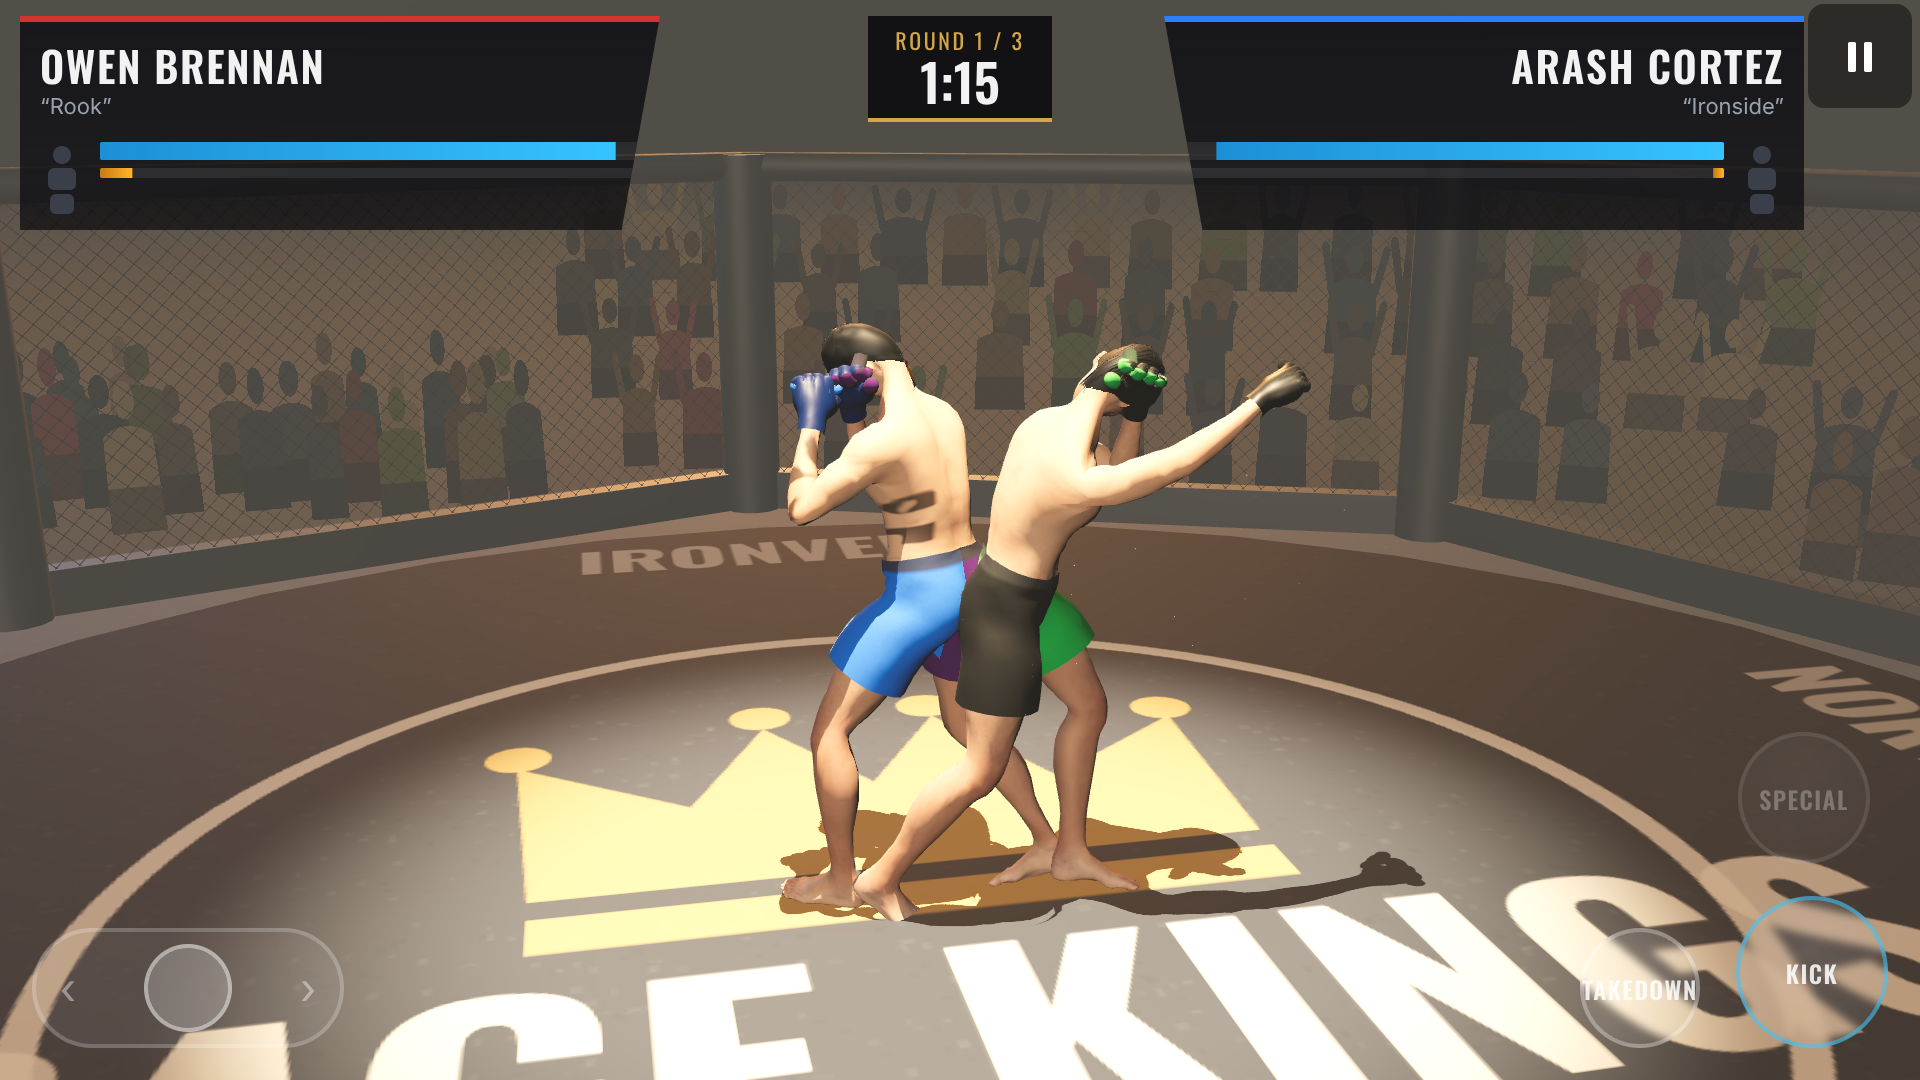
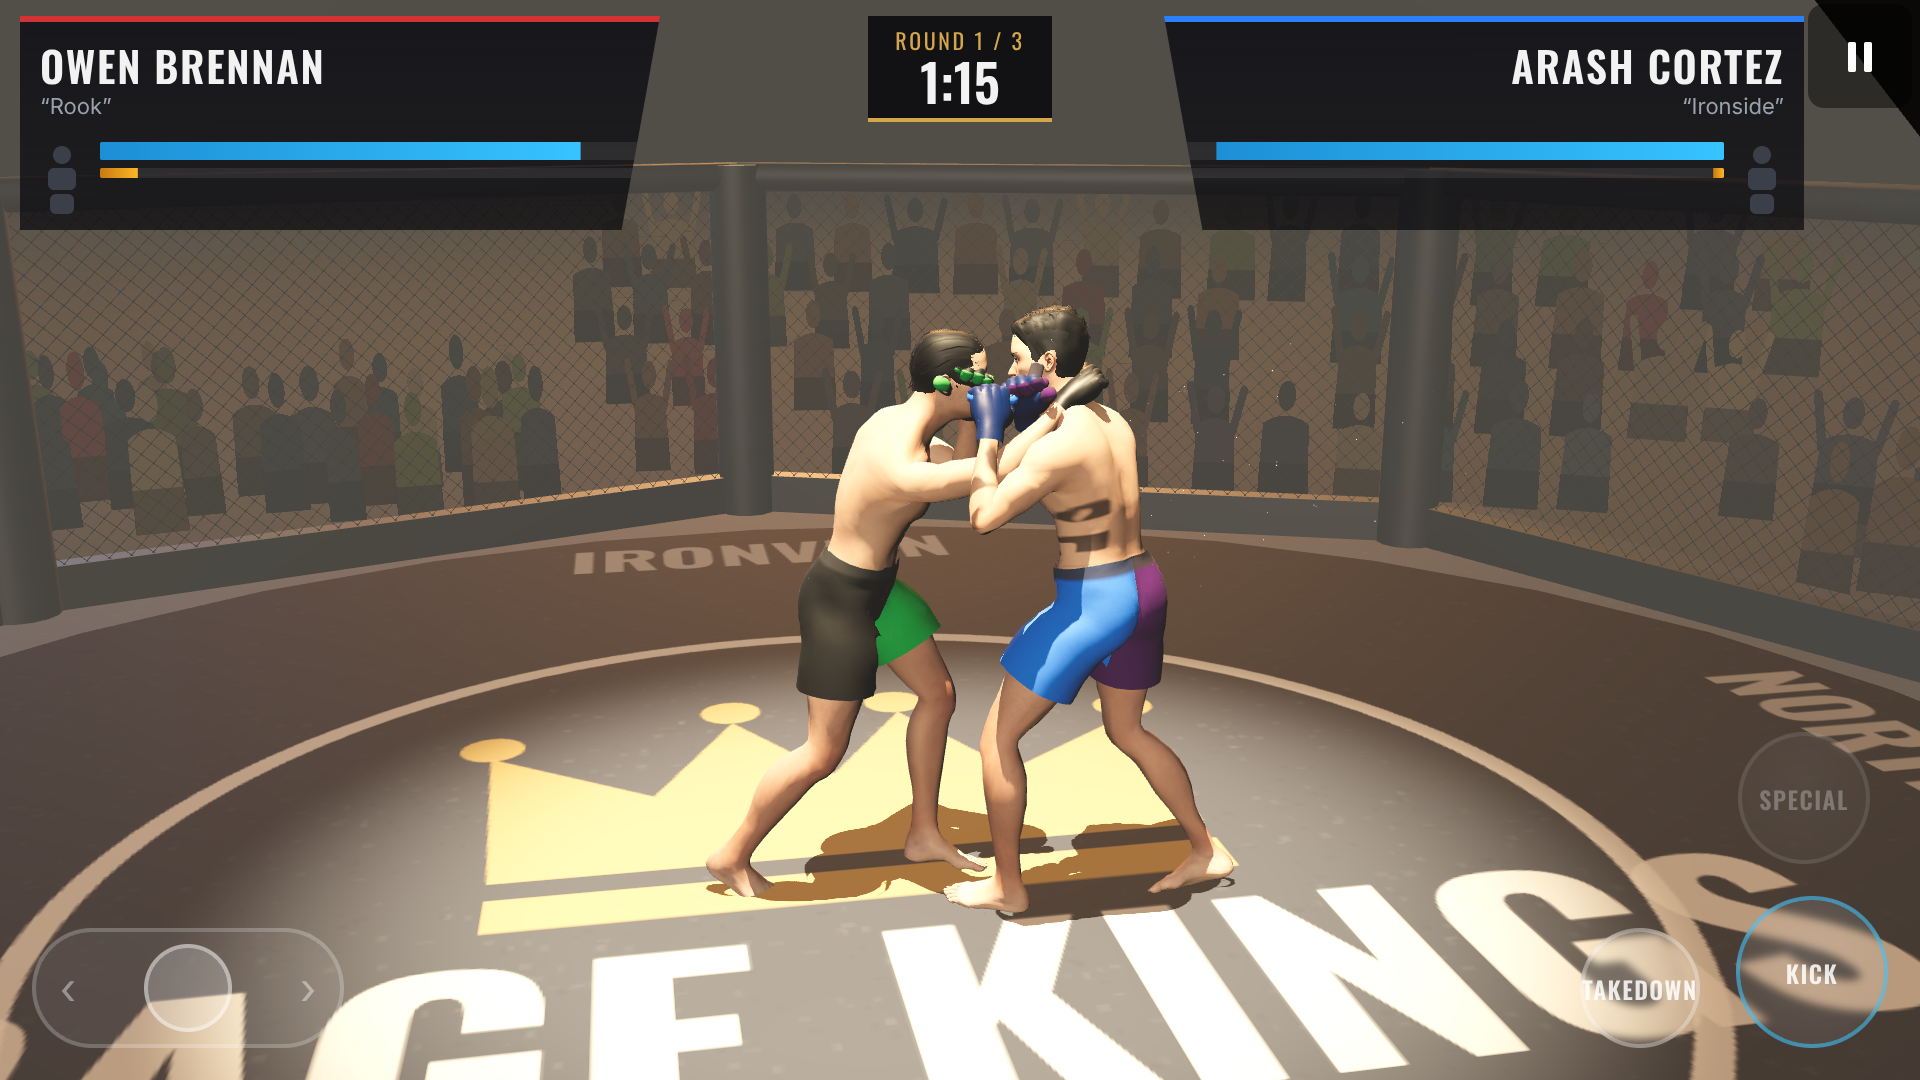
Feature graphic from a real fight frame (scripts/store.mjs)
Claude-Session: https://claude.ai/code/session_01Q441aottNMyK3Pfsob5HHQ

diff --git a/tools/icons.py b/tools/icons.py
@@ -71,5 +71,5 @@ os.makedirs(os.path.join(pub, 'icons'), exist_ok=True)
 icon(512).save(os.path.join(pub, 'icons', 'icon-512.png'))
 icon(192).save(os.path.join(pub, 'icons', 'icon-192.png'))
 icon(64).save(os.path.join(pub, 'favicon.png'))
-splash(1024, 500).save(os.path.join(ROOT, 'docs', 'feature-graphic.png'))
+# the Play feature graphic comes from the real game now: node scripts/store.mjs
 print('icons and splashes written')

diff --git a/CLAUDE.md b/CLAUDE.md
@@ -37,8 +37,8 @@ npm run android:apk    # web build + cap sync + release APK (needs android/keyst
 OUT=/tmp/q/balance.md RUNS=30 npx vitest run --config /dev/null scripts/qa/fight-balance.test.ts
 OUT=/tmp/q/econ.md npx vitest run --config /dev/null scripts/qa/econ-sim.test.ts
 ./tools/fighters/build.sh   # rebuild the fighter bodies (Blender 4.2 + MPFB, downloads CC0 assets to .cache)
-python3 tools/icons.py      # launcher icons, splash screens, feature graphic
-node scripts/store.mjs      # Play Store screenshots into docs/store (needs the dev server on :5173)
+python3 tools/icons.py      # launcher icons and splash screens
+node scripts/store.mjs      # Play Store screenshots (docs/store) and feature graphic (needs the dev server on :5173)
 ```
 - Browser QA: `npx vite --port 5173` then Playwright with Chromium at `/opt/pw-browsers/chromium` (launch args
   `--use-gl=angle --use-angle=swiftshader --enable-unsafe-swiftshader`). Software rendering is slow: use the QA hooks

diff --git a/docs/RELEASE.md b/docs/RELEASE.md
@@ -47,7 +47,7 @@ What is in it:
   make it look closer to a console game. Ground and submission poses are the roughest.
 - Performance has been checked only in a software-rendered browser; a real-phone pass (mid and low end) is needed.
 - Store listing: six screenshots from the real game are in `docs/store/` (`node scripts/store.mjs` remakes them);
-  still to make: a short video and a better feature graphic.
+  the feature graphic (`docs/feature-graphic.png`) is made the same way. Still to make: a short video.
 - Owner tasks: Play Console app `com.danielspurr.cagekings`, products (`no_ads`, `starter_pack`, `season_pass`,
   `gems_1`..`gems_5`, `bundle_champion`), AdMob app and ad units, Play Games leaderboards (weekly, wins, knockouts),
   an upload keystore and the four `ANDROID_KEY*` secrets, privacy policy hosting, content rating questionnaire,
